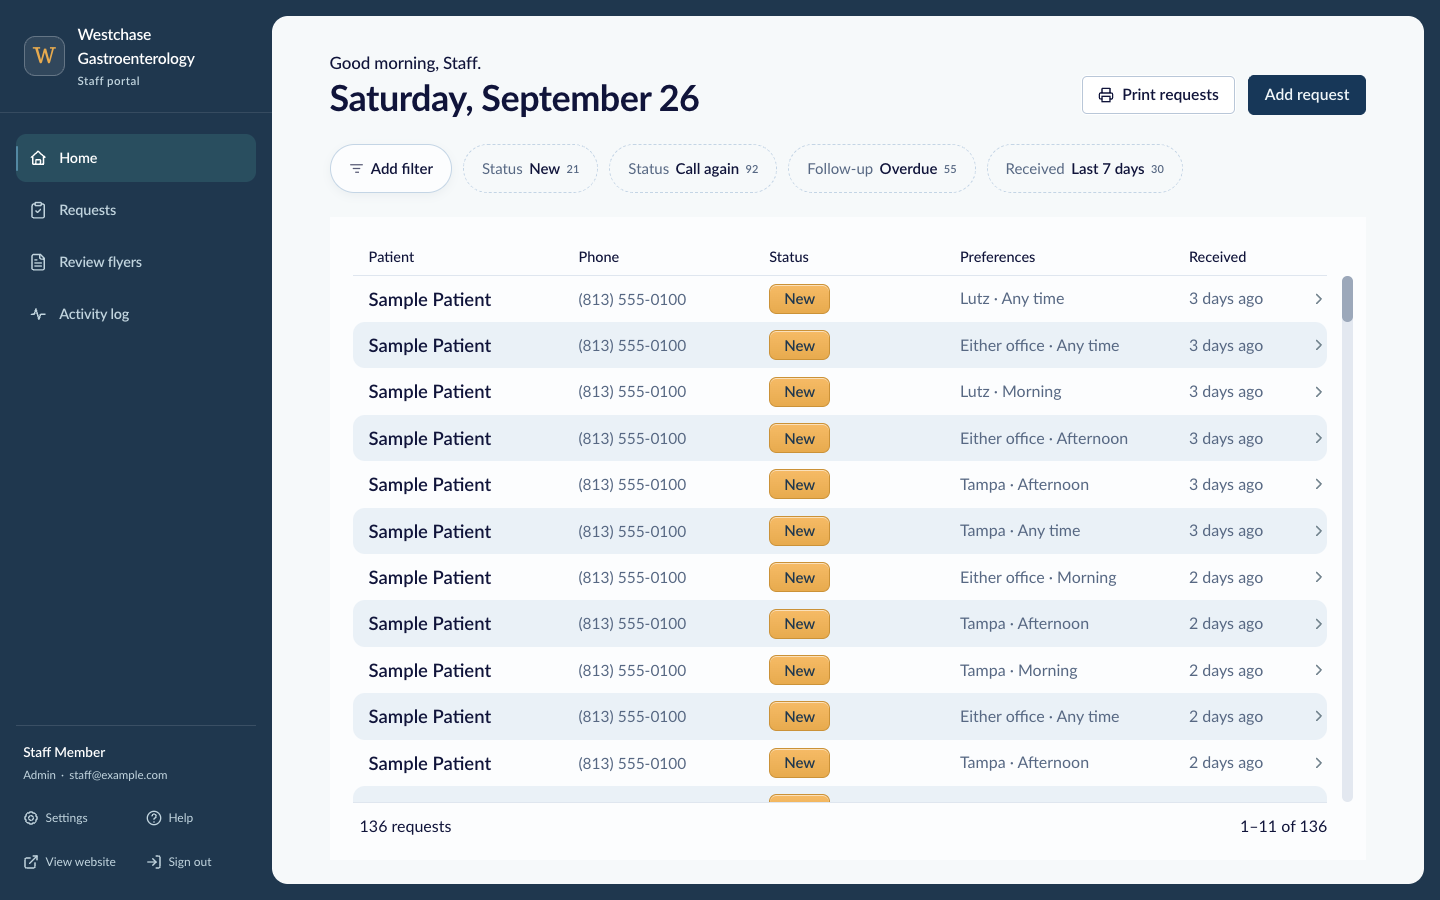
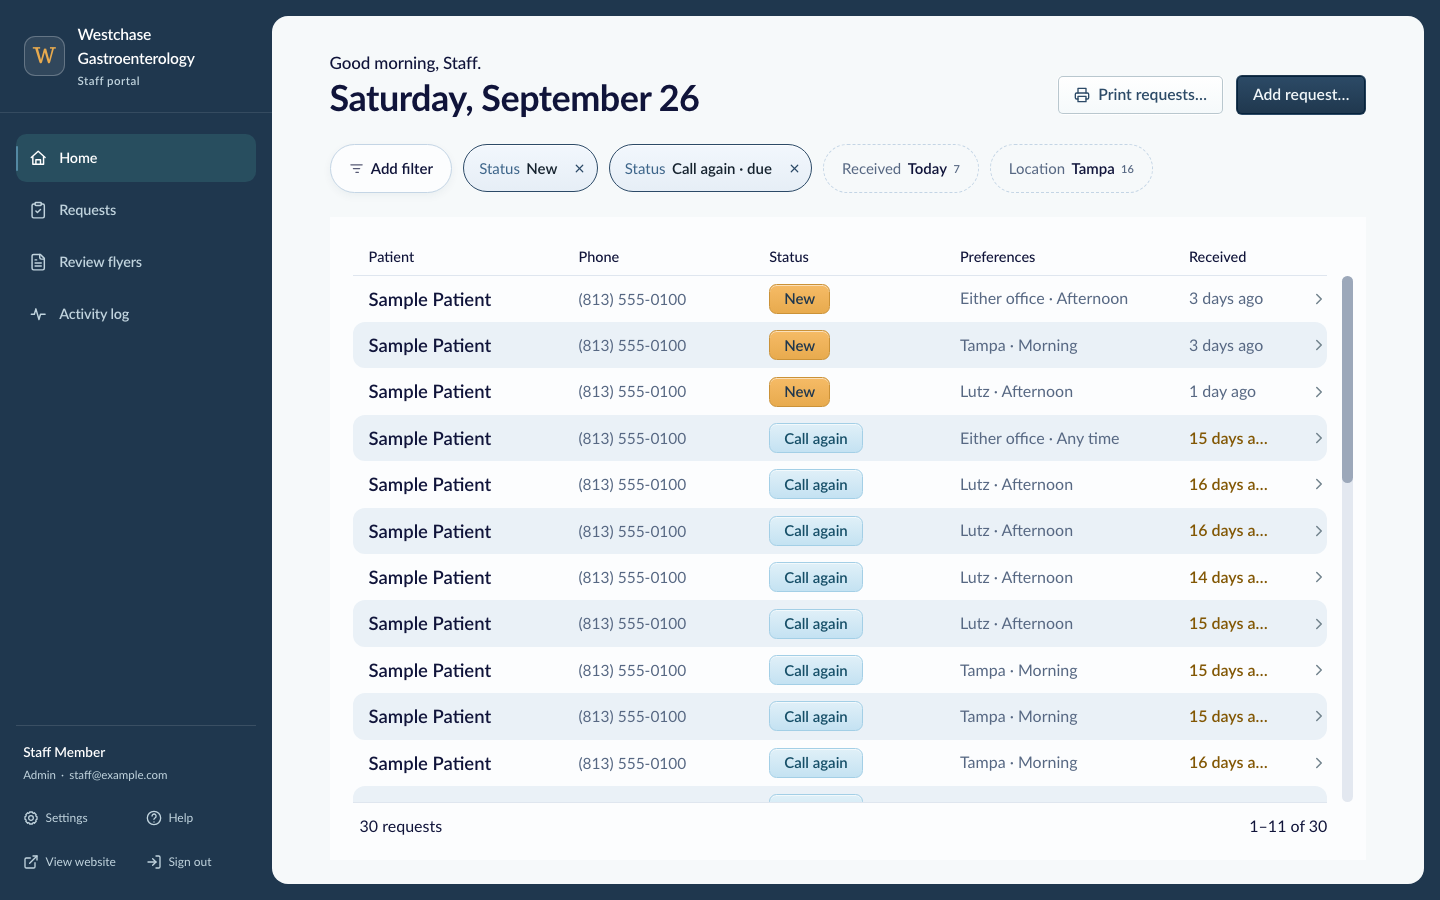
docs(ui-reference): add the add-request route and refresh Home
The atlas gains /admin/requests/new at both viewports, the empty form
only, and Home is recaptured with the Add and Print sheet triggers.

diff --git a/ui-reference/README.md b/ui-reference/README.md
@@ -24,6 +24,7 @@ localized content route.
 | Staff-login shell                   | [desktop-admin-login.png](desktop-admin-login.png)                                                                                                        |
 | Staff portal — Home                 | [desktop-portal-home.png](desktop-portal-home.png) · [mobile-portal-home.png](mobile-portal-home.png)                                                     |
 | Staff portal — Appointment requests | [desktop-portal-requests.png](desktop-portal-requests.png) · [mobile-portal-requests.png](mobile-portal-requests.png)                                     |
+| Staff portal — Add request          | [desktop-portal-requests-new.png](desktop-portal-requests-new.png) · [mobile-portal-requests-new.png](mobile-portal-requests-new.png)                     |
 | Staff portal — Print review flyers  | [desktop-portal-review-flyers.png](desktop-portal-review-flyers.png) · [mobile-portal-review-flyers.png](mobile-portal-review-flyers.png)                 |
 | Staff portal — Settings             | [desktop-portal-settings.png](desktop-portal-settings.png) · [mobile-portal-settings.png](mobile-portal-settings.png)                                     |
 | Staff portal — Website settings     | [desktop-portal-settings-software.png](desktop-portal-settings-software.png) · [mobile-portal-settings-software.png](mobile-portal-settings-software.png) |
@@ -46,6 +47,6 @@ deployment to re-baseline the current public site. It uses the existing Playwrig
 the portal run signs in but never changes portal records. Inspect the changed PNGs before committing
 them.
 
-Portal images are limited to the seven top-level staff routes, omit individual request details, and
-redact account and queue data in the browser before capture. Never run the portal mode against a
-Production origin.
+Portal images are limited to the seven top-level staff routes and the empty add-request form, omit
+individual request details, and redact account and queue data in the browser before capture. Never
+run the portal mode against a Production origin.

diff --git a/CONTRIBUTING.md b/CONTRIBUTING.md
@@ -354,8 +354,8 @@ shared database by closing/reopening a child PR, or hand-patch it into an unrepr
 Open [`ui-reference/README.md`](ui-reference/README.md) before frontend work. Refresh the
 affected images against the matching local or Preview origin; use the default live-origin
 capture after deployment for public pages. The portal atlas covers only the seven top-level
-staff routes with the Preview Branch seed identity, redacts in-browser, and never runs
-against Production.
+staff routes and the empty add-request form with the Preview Branch seed identity, redacts
+in-browser, and never runs against Production.
 
 UI-visible work also has to satisfy the [visual evidence](AGENTS.md#visual-evidence) gate:
 before and after screenshots in the pull-request conversation, or a video of the authored

diff --git a/AGENTS.md b/AGENTS.md
@@ -82,7 +82,7 @@ The visual baseline is required. Before working on the frontend UI, open `ui-ref
 
 Refresh the affected images against the matching local or Preview origin before committing. After deployment, use the default live-origin capture for public pages.
 
-The atlas includes the seven top-level staff routes. Refresh them only with the Preview Branch seed identity, keep the browser-side redaction, and never include an individual request or Production data.
+The atlas includes the seven top-level staff routes and the empty add-request form. Refresh them only with the Preview Branch seed identity, keep the browser-side redaction, and never include an individual request or Production data.
 
 ### Visual evidence
 
